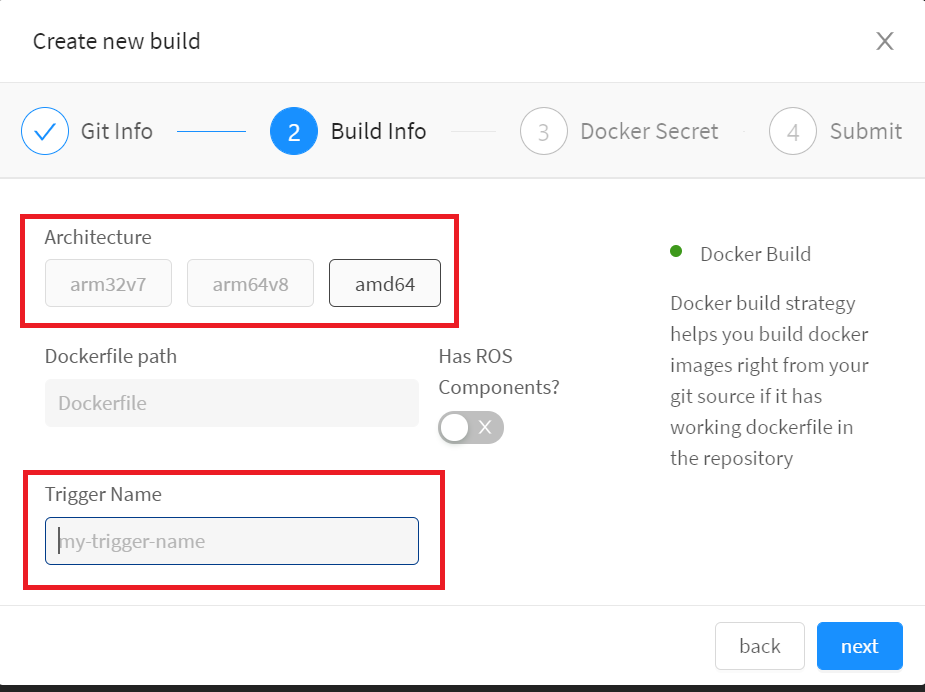
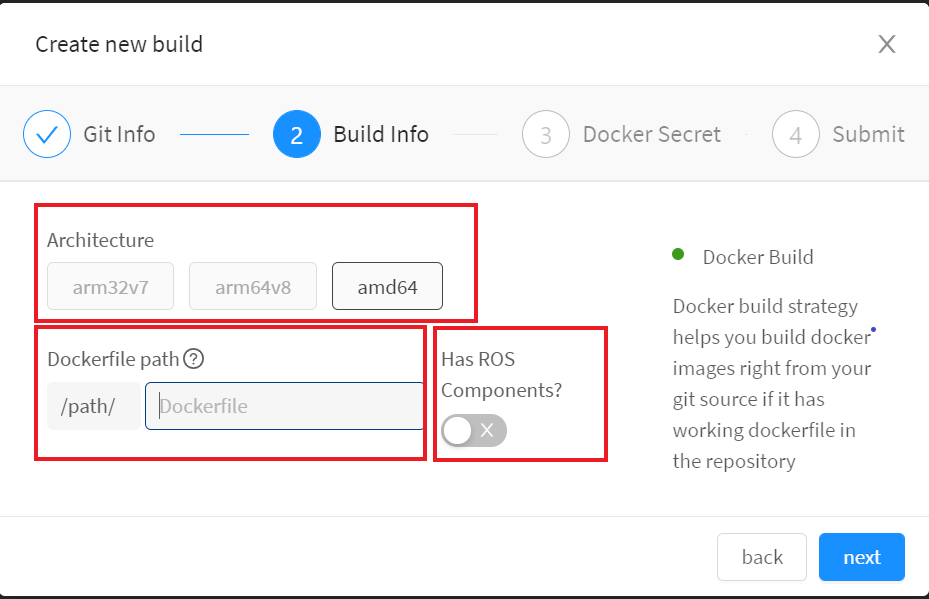
Removed Trigger name and tag name secions

diff --git a/hugo/content/3_how-tos/33_software-development/331_create-builds.md b/hugo/content/3_how-tos/33_software-development/331_create-builds.md
@@ -109,13 +109,11 @@ To create a build using Catkin recipe, do the following.
 
     a. In the **Architecture** area, select the processor architecture for the build. The available options are:  **arm32v7**, **arm32v7**, or **amd64**.
    
-    b. In the **Dockerfile path** field, type the path of the docker file that contains the source code.
+    b. In the **Dockerfile path** field, type the path of the docker file that contains the source code. The docker file path is relative to the **Context Directory** field.
 
-    c. In the **Trigger Name** field, type a trigger name for the build. The trigger name can be used as a reference to track the build.
+    c. Optionally, if the build has ROS component, then click the **Has ROS Components** radio-button, select the ROS version as either **Kinetic** or **Melodic**, and if the build has a simulation option, click the **Has Simulation** radio-button.
 
-    d. Optionally, if the build has ROS component, then click the **Has ROS Components** radio-button, select the ROS version as either **Kinetic** or **Melodic**, and if the build has a simulation option, click the **Has Simulation** radio-button.
-
-    e. Click **Next**.
+    d. Click **Next**.
 
   ![goo](/images/core-concepts/builds/build-creation/docker-build-info.png?classes=border,shadow&width=30pc)
 
@@ -126,11 +124,10 @@ To create a build using Catkin recipe, do the following.
 
     c. From the **Push secret** drop-down menu, select the secret for the repository. If you have not created any secret for the repository, [create a secret](/how-to-guides/account-management/setup-private-docker-registry/#creating-a-docker-secret).
 
-    d. If you want to push the build image, in the **Tag Name** field, type a tag name for the build. The tag name is appended after the trigger name and is used just as a reference to the build.
 
-    e. Optionally, to pull a secured docker image to the docker file, click the **Docker Pull secret** toggle button and select the secret for the repository. If you have not created any secret for the repository, [create a secret](/how-to-guides/account-management/setup-private-docker-registry/#creating-a-docker-secret).
+    d. Optionally, to pull a secured docker image to the docker file, click the **Docker Pull secret** toggle button and select the secret for the repository. If you have not created any secret for the repository, [create a secret](/how-to-guides/account-management/setup-private-docker-registry/#creating-a-docker-secret).
 
-    f. Click **Next**.
+    e. Click **Next**.
   ![goo](/images/core-concepts/builds/build-creation/docker-push-secret.png?classes=border,shadow&width=30pc)
 
 

diff --git a/hugo/content/5_deep-dives/52_software-development/522_trigger-and-rollback-builds.md b/hugo/content/5_deep-dives/52_software-development/522_trigger-and-rollback-builds.md
@@ -16,7 +16,7 @@ The rapyuta.io **Development>Builds** allow you to do that.
 
 In the **Development>Builds** page select the particular build from the build list and click on **SHOW MORE**, 
 this will open the **Details** tab of the selected build. 
-It displays information on the build, current build trigger and tag names, git repository etc. 
+It displays information on the build, current build generation number, git repository etc. 
 
 Suppose the current build generation number is _i_. If you update the
 source code in the git repository, you may want to trigger a new build to reflect the new code changes. 
